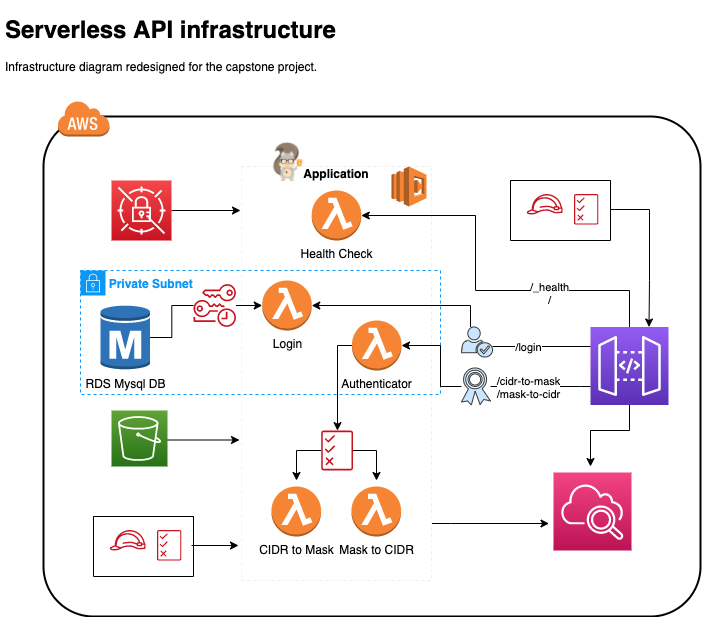
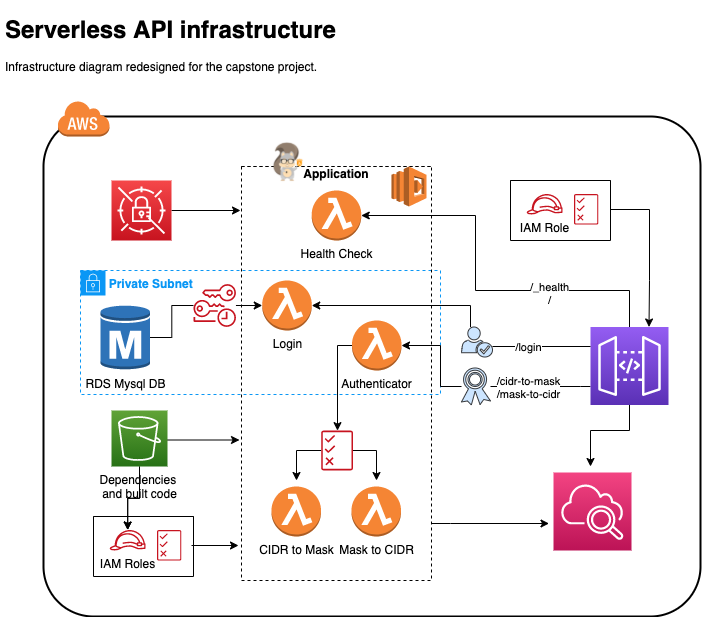
Updated readme

Changed region(s): [[0.1496, 0.7699, 0.2692, 0.8622], [0.7479, 0.3387, 0.8077, 0.4003], [0.1496, 0.893, 0.2393, 0.9238]]

diff --git a/README.md b/README.md
@@ -1,2 +1,13 @@
-# sre-bootcamp-project
-Wizeline SRE bootcamp capstone project. 
+# SRE Bootcamp Project
+
+Wizeline SRE bootcamp capstone project.
+
+About deliverable 2, here's the old infrastructure diagram.
+
+![old-infra](./diagrams/previous-infra.png)
+
+Here's the currently deployed infrastructure.
+
+![current infra](./diagrams/new-infra.png)
+
+Drawio format diagrams can be found in diagrams folder.
